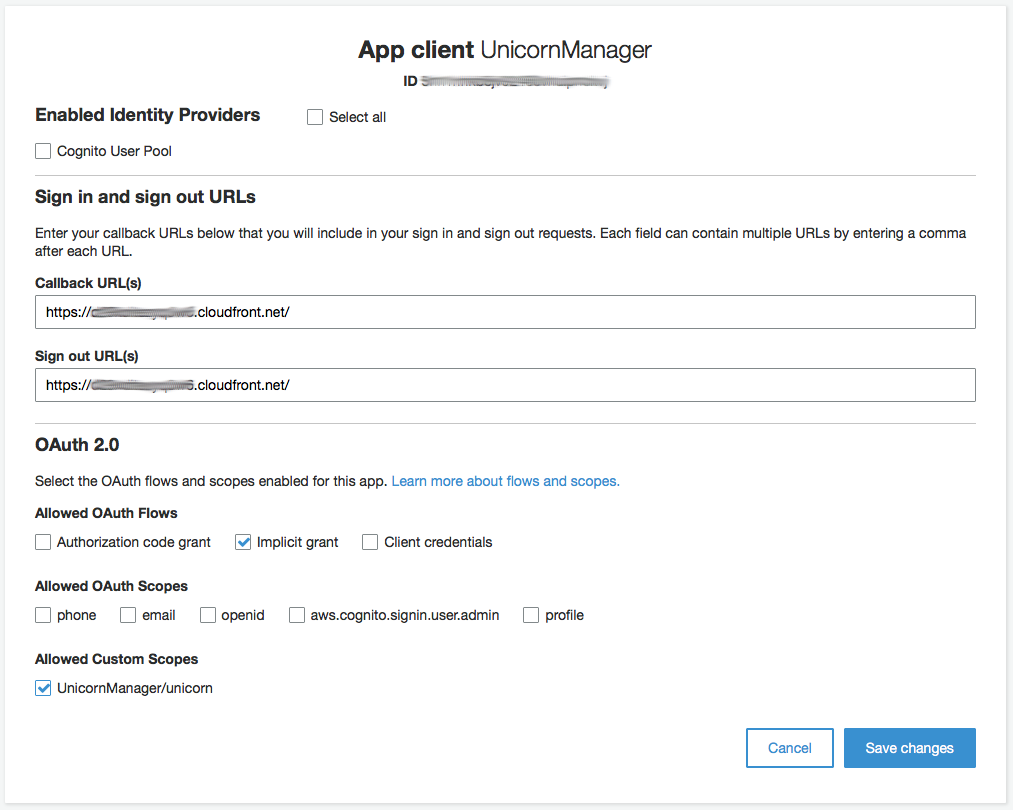
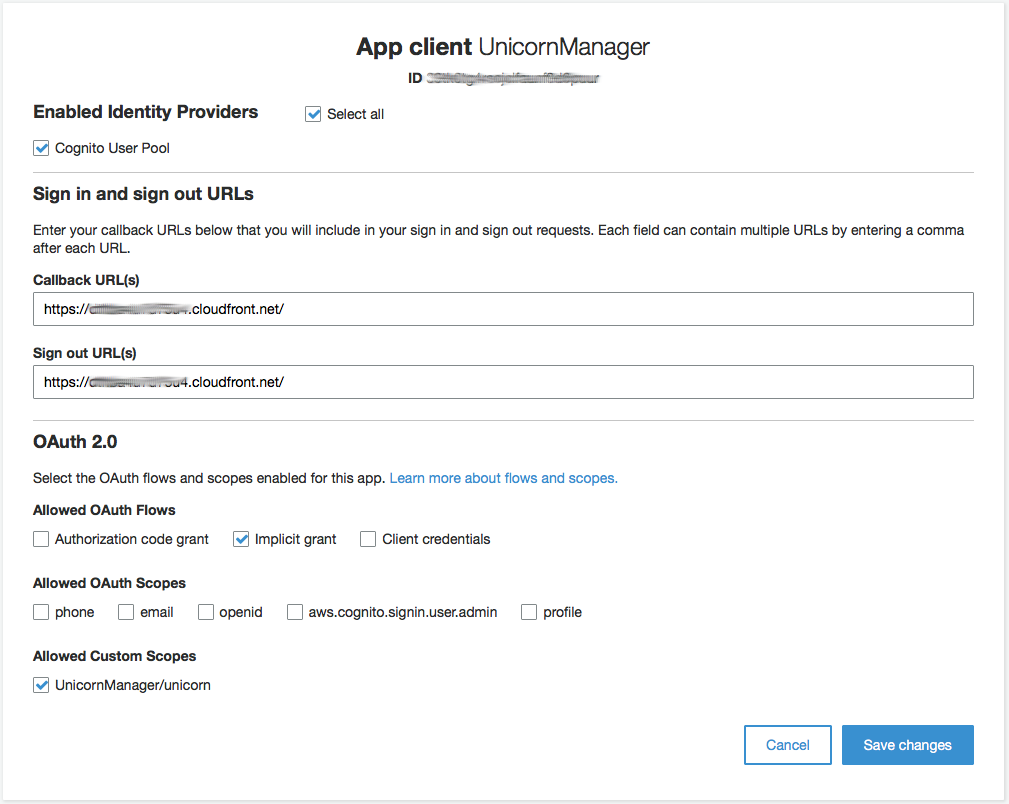
Updated screenshots and instructions for lambda function creation. Updated user pool CloudFormation template to require email address. Update instructions for testing of application. Multiple fixes in the readme file

diff --git a/WebApplication/5_OAuth/UnicornManager/js/config.js b/WebApplication/5_OAuth/UnicornManager/js/config.js
@@ -2,9 +2,9 @@ window._config = {
     cognito: {
         userPoolClientId: 'COGNITO APPLICATION ID', // e.g. 25ddkmj4v6hfsfvruhpfi7n4hv
         region: 'AWS REGION', // e.g. us-east-2
-        authDomainPrefix: 'COGNIITO HOSTED LOGIN CUSTOM DOMAIN' // sapessi-um-test
+        authDomainPrefix: 'COGNIITO HOSTED LOGIN CUSTOM DOMAIN' // wildrydes-sapessi
     },
     api: {
-        invokeUrl: 'API ENDPOINT URI' // e.g. https://rc7nyt4tql.execute-api.us-west-2.amazonaws.com/prod',
+        invokeUrl: 'API ENDPOINT URI' // e.g. https://xxxxxxxx.execute-api.us-west-2.amazonaws.com/prod',
     }
 };

diff --git a/WebApplication/5_OAuth/UnicornManager/js/unicornManager.js b/WebApplication/5_OAuth/UnicornManager/js/unicornManager.js
@@ -84,7 +84,7 @@ var UnicornManager = window.UnicornManager || {};
                    ".amazoncognito.com" +
                    "/oauth2/authorize?response_type=token" +
                    "&client_id=" + window._config.cognito.userPoolClientId +
-                   "&redirect_uri=" + location.protocol + '//' + location.host + location.pathname +
+                   "&redirect_uri=" + location.protocol + '//' + location.host + '/' +
                    "&scope=UnicornManager/unicorn";
         
         console.log("Redirecting to: " + loginUri);

diff --git a/WebApplication/5_OAuth/UnicornManager/index.html b/WebApplication/5_OAuth/UnicornManager/index.html
@@ -65,7 +65,7 @@
 
     <div class="container">
         <div class="row">
-            <div class="col-md-6 col-md-offset-3">
+            <div class="col-md-8 col-md-offset-2">
                 <div id="rideList">
                     Click <strong>Refresh</strong> to list your rides.
                 </div>

diff --git a/WebApplication/5_OAuth/UnicornManager/css/ride.css b/WebApplication/5_OAuth/UnicornManager/css/ride.css
@@ -22,6 +22,8 @@ html, body, #main, #map {
     margin-top: 30%;
     min-width: 50%;
     background-color: white;
+    padding: 10px;
+    border-radius: 5px;
 }
 
 #request {

diff --git a/WebApplication/5_OAuth/README.md b/WebApplication/5_OAuth/README.md
@@ -2,11 +2,11 @@
 
 In this module we will turn our Wild Rydes application into a platform, enabling third party developers to build new applications on top of our APIs. By leveraging third party developers, it will be easier for us to open new markets and geographies as well as provide new functionality for our riders. 
 
-You'll configure your Cognito User Pool from module #2 to enable OAuth 2.0 flows. Using OAuth, third party developers can build new client applications on top of your APIs. We will create a new method in the application's API that allows unicorns to list the rides they have given. This will open a new line of business for us, making it easy for third party developers to build applications that help unicorns manage their time and earnings. First, we will create the new method to list rides. Then, we will enable OAuth flows in our Cognito User Pool and deploy a sample client. Finally, we will leverage Usage Plans in API Gateway to throttle and meter usage of our APIs by third party developers.
+You'll configure your Cognito User Pool from module #2 to enable OAuth 2.0 flows. Using OAuth, third party developers can build new client applications on top of your APIs. We will create a new method in the application's API that allows unicorns to list the rides they have given. This will open a new line of business for us, making it easy for third party developers to build applications that help unicorns manage their time and earnings. First, we will create the new method to list rides. Then, we will enable OAuth flows in our Cognito User Pool and deploy a sample client. 
 
 ![OAuth 2.0 3rd party app architecture](../images/oauth-architecture.png)
 
-The diagram above shows how the component of the new third party application interact with our current Wild Rydes architecture. The web application is deployed in an S3 bucket. The application uses the Cognito User Pools built-in UI to start an implicity grant OAuth 2.0 flow and authenticate the user. Once the Unicorn user is authenticated the client application receives an identity and access token for the Unicorn. Tokens for Unicorns include an additional `Unicorn` claim that gives them access to the new API. When a client request hits API Gateway, usage plans will make sure that the developers is allowed access and that the application is not exceeding its limits (requests per second and quota). Still in API Gateway, a custom authorizer checks for the `Unicorn` claim in the JWT access token produced by Cognito and passes the unicorn name to the backend Lambda function. The backend Lambda function uses the unicorn name from the access token to query the rides table in DynamoDB.
+The diagram above shows how the component of the new third party application interact with our current Wild Rydes architecture. The web application is deployed in an S3 bucket. The application uses the Cognito User Pools built-in UI to start an implicity grant OAuth 2.0 flow and authenticate the user. Once the Unicorn user is authenticated the client application receives an identity and access token for the Unicorn. Tokens for Unicorns include an additional `Unicorn` claim that gives them access to the new API. In API Gateway, a custom authorizer checks for the `Unicorn` claim in the JWT access token produced by Cognito and passes the unicorn name to the backend Lambda function. The backend Lambda function uses the unicorn name from the access token to query the rides table in DynamoDB.
 
 ### Prerequisites
 This module depends on all of the previous four modules in the Wild Rydes workshop. To make it easier to get started, we have prepared a CloudFormation template that can launch the complete stack for you.
@@ -24,9 +24,11 @@ Asia Pacific (Seoul) | [![Launch Modules 1, 2, 3, and 4 in ap-northeast-2](http:
 Asia Pacific (Sydney) | [![Launch Modules 1, 2, 3, and 4 in ap-southeast-2](http://docs.aws.amazon.com/AWSCloudFormation/latest/UserGuide/images/cloudformation-launch-stack-button.png)](https://console.aws.amazon.com/cloudformation/home?region=ap-southeast-2#/stacks/new?stackName=wildrydes-webapp&templateURL=https://s3.amazonaws.com/wildrydes-ap-southeast-2/WebApplication/5_Oauth/prerequisites.yaml)
 Asia Pacific (Mumbai) | [![Launch Modules 1, 2, 3, and 4 in ap-south-1](http://docs.aws.amazon.com/AWSCloudFormation/latest/UserGuide/images/cloudformation-launch-stack-button.png)](https://console.aws.amazon.com/cloudformation/home?region=ap-south-1#/stacks/new?stackName=wildrydes-webapp&templateURL=https://s3.amazonaws.com/wildrydes-ap-south-1/WebApplication/5_Oauth/prerequisites.yaml)
 
+The stack creation process will ask you for a **Website Bucket Name**, specify a unique name for your bucket such as **wildrydes-webapp-<username>**.
+
 After the stack created successfully, open the **Outputs** tab in the CloudFormation console. Copy the **WebsiteURL** output value and navigate to the page with a browser window.
 
-On the Wild Rydes website, click the **Giddy Up!** button and register a new user. Once you have received your verification code, navigate to the **verify.html** page of the website to submit your code. From the login page, use your new credentials to log into the website. Use the application to request a few unicorn rides, we will need the data later in this module.
+On the Wild Rydes website, click the **Giddy Up!** button and register a new user. Once you have received your verification code, navigate to the **verify.html** page of the website to submit your code. From the login page, use your new credentials to log into the website. Use the application to request a few unicorn rides, we will need the rides data later in this module.
 
 
 ### 1. Create the new List Rides Lambda function
@@ -48,11 +50,13 @@ Make sure to configure your function to use the `WildRydesLambda` IAM role you c
 
 1. Click the **Author from scratch** button at the top of the blueprint list.
 
-1. Don't add any triggers at this time. Choose **Next** to proceed to defining your function.
-
 1. Enter **ListUnicornRides** in the **Name** field.
 
-1. Optionally enter a description.
+1. Select **wildrydes/WildRydesLambda** from the **Existing Role** dropdown.
+
+	 ![Define handler and role screenshot](../images/lambda-handler-and-role.png)
+
+1. Click **Create function**.
 
 1. Select **Node.js 6.10** for the **Runtime**.
 
@@ -62,11 +66,7 @@ Make sure to configure your function to use the `WildRydesLambda` IAM role you c
 
 1. Leave the default of **index.handler** for the **Handler** field.
 
-1. Select **WildRydesLambda** from the **Existing Role** dropdown.
-
-	 ![Define handler and role screenshot](../images/lambda-handler-and-role.png)
-
-1. Choose **Next** and then choose **Create function** on the Review page.
+1. Click **Save** at the top of the page.
 
 </p></details>
 
@@ -93,7 +93,7 @@ Make sure to configure your function to use the **WildRydesLambda** IAM role you
 
 1. Enter **ListUnicornAuthorizer** in the **Name** field.
 
-1. Select **WildRydesLambda** from the **Existing Role** dropdown.
+1. Select **wildrydes/WildRydesLambda** from the **Existing Role** dropdown.
 
 1. Click **Create function**.
 
@@ -110,7 +110,7 @@ Make sure to configure your function to use the **WildRydesLambda** IAM role you
     ![Create Lambda function screenshot](../images/create-list-rides-authorizer-function.png)
 
 
-1. Click **Save** at the top of the function page.
+1. Click **Save** at the top of the page.
 
 </p></details>
 
@@ -159,7 +159,7 @@ In the API Gateway console, open the `WildRydes` API we created in module #4 and
 
 1. Open the **Services** menu and select **API Gateway** in the Application Services section.
 
-1. Open the **WildRydes** API and select the `/ride` resource.
+1. Open the **WildRydes** API and, from the **Resources** page, select the `/ride` resource.
 
 1. Using the **Actions** dropdown menu in the **Resources** pane, select **Create Method**.
 
@@ -169,7 +169,7 @@ In the API Gateway console, open the `WildRydes` API we created in module #4 and
 
     ![Configure List Rides integration](../images/list-rides-api-integration.png)
 
-1. Click **Save** and confirm the new permissions on the Lambda function.
+1. Click **Save** and confirm the new permissions on the Lambda function by clicking **Ok** in the modal window.
 
 1. In the **Method Execution** screen, open the **Method Request** pane.
 
@@ -201,14 +201,14 @@ You will need to add a bucket policy to your new Amazon S3 bucket to let anonymo
 
 Using the console, enable static website hosting. You can do this on the Properties tab after you've selected the bucket. Set `index.html` as the index document, and leave the error document blank. See the documentation on [configuring a bucket for static website hosting](https://docs.aws.amazon.com/AmazonS3/latest/dev/HowDoIWebsiteConfiguration.html) for more details.
 
-Using the CloudFront console, create a new Distribution for web content specifying the S3 static website URL as the origin domain and / as the path. Make sure that the distribution only accepts HTTPS requests.
+Using the CloudFront console, create a new Distribution for web content specifying the S3 static website URL as the origin domain and / as the path. Make sure that the distribution only accepts HTTPS requests and HTTP requests are redirected to the HTTPS url.
 
 <details>
 <summary><strong>Step-by-step instructions (expand for details)</strong></summary><p>
 
 1. In the AWS Management Console choose **Services** then select **S3** under Storage.
 
-1. Choose **+Create Bucket**
+1. Choose **+ Create Bucket**
 
 1. Provide a globally unique name for your bucket such as `unicornmanager-firstname-lastname`.
 
@@ -220,7 +220,7 @@ Using the CloudFront console, create a new Distribution for web content specifyi
 
 1. Open the bucket you just created.
 
-1. Choose the **Permissions** tab, then choose **Bucket Policy**.
+1. Choose the **Permissions** tab, then click the **Bucket Policy** button.
 
 1. Enter the following policy document into the bucket policy editor replacing `[YOUR_BUCKET_NAME]` with the name of the bucket you created in section 1:
 
@@ -248,7 +248,7 @@ Using the CloudFront console, create a new Distribution for web content specifyi
 
 1. Select **Use this bucket to host a website** and enter `index.html` for the Index document. Leave the other fields blank.
 
-1. Note the **Endpoint** URL at the top of the dialog before choosing **Save**. You will use this URL throughout the rest of the workshop to view your web application. From here on this URL will be referred to as your website's base URL.
+1. Note the **Endpoint** URL at the top of the dialog before choosing **Save**.
 
 1. Click **Save** to save your changes.
 
@@ -291,7 +291,7 @@ Using the Cognito console, add a new client application called **UnicornManager*
 
 1. Click **Add another app client**.
 
-1. Enter **Unicorn Manager** as the **App client name** and uncheck the **Generate client secret** checkbox.
+1. Enter **UnicornManager** as the **App client name** and uncheck the **Generate client secret** checkbox.
 
     ![Create bucket screenshot](../images/create-cognito-app-client.png)
 
@@ -299,7 +299,7 @@ Using the Cognito console, add a new client application called **UnicornManager*
 
 1. Open the **Domain name** configuration page.
 
-1. Specify a unique custom domain name, for example **WildRydes-sapessi**.
+1. Specify a unique custom domain name, for example **wildrydes-sapessi**.
 
 1. Make sure that the domain name is available and then click **Save changes**.
 </p></details>
@@ -327,9 +327,9 @@ Using the Cognito console, open the **WildRydes** User Pool and create a new cus
 
 1. Specify **UnicornServer** as the **Name**.
 
-1. For the **Identifier** use the URL from your S3 website in module 1. You can find this URL in the S3 console: Open the Wild Rydes website bucket, select the **Properties** tab, and click on the **Static Website Hosting** card. You can find the public endpoint at the top of the card.
+1. Use **UnicornManager** as the  **Identifier** for the custom resource server.
 
-1. In the **Scopes** section, declare a new scope called **unicorn**. I've used **Unicorn-specific access** as the description.
+1. In the **Scopes** section, declare a new scope called **unicorn**. I've used "**Allow listing of of rides for unicorns**" as the description.
 
     ![Configure Cognito Resource Server](../images/configure-cognito-resource-server.png)
 
@@ -341,7 +341,7 @@ Using the Cognito console, open the **WildRydes** User Pool and create a new cus
 #### Background
 Amazon Cognito User Pools supports the authorization code grant, implicit, and client credentials grants. Third party developers can load the Cognito hosted UI with their application ID and request any of the enabled flows. Cognito User Pools also exposes a set of client and server/admin APIs that you can use to build custom authentication flows. As a result of a successful authentication Cognito produces and OpenID Connect-compatible identity token and a JWT access token. The access token includes the custom scopes you declared for the application.
 
-In our example, we will use the implicit flow for the sake of simplicity. Implicit grant flows are mostly used by mobile applications. Normally, you would require third party developers to host their own backend service and use the authorization code grant flow.
+In our example, we will use the implicit flow for the sake of simplicity. Implicit grant flows are mostly used by mobile applications. For web applications, you would normally require third party developers to host their own backend service and use the authorization code grant flow.
 
 #### High-Level Instructions
 Open the **App client settings** and configure the **UnicornManager** app to use **Cognito User Pool** as an identity provider and allow the **Implicit grant** flow. Make sure the application has access to the **custom scope** we created in step #7. As a callback URL, use the CloudFront distribution endpoint we created in step #5. The callback url will look like this: `https://xxxxxxxxxxx.cloudfront.net`.
@@ -353,11 +353,13 @@ Open the **App client settings** and configure the **UnicornManager** app to use
 
 1. In the intro page, click **Manage your User Pools** an open the **WildRydes** pool.
 
-1. Open the **App clients settings** from the **App integration** menu on the left.
+1. Open the **App clients settings** from the **App integration** menu on the left. This page lists both the app clients declared for your user pool. Make sure you make the following changes only to the **UnicornManager** client app.
 
-1. Enable the **Implicit grant** OAuth flow and allow the **http://wildrydes** custom scope.
+1. Select **Cognito User Pool** as an identity provider for the app client.
 
-1. In the **Callback** and **Signout** URLs, specify the HTTPS cloudfront distribution endpoint and add **/callback.html** at the end:
+1. Enable the **Implicit grant** OAuth flow and allow the **UnicornManager/unicorn** custom scope.
+
+1. In the **Callback** and **Signout** URLs, specify the HTTPS cloudfront distribution endpoint adding **https://** at the beginning and **/** at the end:
  1. You can find the distribution endpoint in the **CloudFront** console.
  1. Select the distribution we created in step #5.
  1. In the **General** tab, copy the value for **Domain name**.
@@ -380,9 +382,26 @@ Upload the content of the **UnicornManager** folder to the root of your S3 bucke
 
 <details>
 <summary><strong>CLI step-by-step instructions (expand for details)</strong></summary><p>
-##### AWS CLI
+1. With a file manager, navigate to the folder where the lab content is located and open the **UnicornManager** directory from the **WebApplication/5_OAuth/** folder.
 
 1. Open a terminal window and navigate to the folder where the material for this workshop is located. Navigate to the `WebApplication/5_OAuth/UnicornManager` folder.
+
+1. Open the **js** folder.
+
+1. Using your preferred text editor, open the **config.js** file.
+
+1. From the Cognito User Pools console, copoy the client app id for the **UnicornManager** application as the value of the **userPoolClientId** property. You can find the application id in the **App clients** menu of the Cognito console.
+
+1. Change the value of the **region** property to the region you are using for this workshop. For example, I'm using **us-east-2**.
+
+1. Still in the Cognit User Pools console, open the **Domain name** page and copy the custom prefix in the value for the **authDomainPrefix** property. In our sample, this was `wildrydes-sapessi`.
+
+1. Finally, open the CloudFormation console and select the pre-requisites stack we created at the beginning of this lab. With the stack selected, use the bottom section of the window to open the **Outputs** tab. Copy the value of the **WildRydesApiInvokeUrl** output variable to the **invokeUrl** property - this value should look like this: `https://xxxxxxxxx.execute-api.xx-xxxxx-x.amazonaws.com/prod`
+
+1. Next, we need to copy the files we just modified to the S3 bucket that hosts our static website. We created the bucket in step #5 of this lab and it should be called **unicornmanager-&lt;username&gt;**. You can use the AWS CLI or the management console with a compatible browser to upload the files.
+##### AWS CLI
+
+1. With a terminal, navigate to the **UnicornManager** directory in the lab material folder. 
 
 1. Run the following command:
 
@@ -401,9 +420,14 @@ Upload the content of the **UnicornManager** folder to the root of your S3 bucke
 ### Testing the application
 Before we open the web page for the new Unicorn Manager application, we need to create a user for our unicorn. Using the **DynamoDB** console, open the **Tables** page and select the **Rides** table. In the **Items** tab, refresh the list of rides. Take the most common unicorn name from the **UnicornName** field and copy the value. 
 
-Next, open the Wild Rydes web UI - you can find the link in the **Outputs** of the prerequisites CloudFormation stack. If the application logs you in automatically, log out first. Open the **register.html** page and create a new user. The registration automatically sends you a verification code to the email address you specified, activate the user by entering the verification code in the **verify.html** page.
+Next, open the unicorn manager application by navigating to the CloudFront distribution domain we created in step #5 - the domain should look like this: **xxxxxxxxxxxx.cloudfront.net**. The application detects that we are not logged in an automatically redirects us to the Cognito hosted login page. On the login page, use the **Sign up** link at the bottom of the form.
 
-With a web browser, navigate to the CloudFront endpoint for your Unicorn Manager web application. You can find the endpoint in the CloudFront console by opening the distribution - the field is called **Domain Name**. The website should redirect you automatically to the Cognito hosted login page. At the bottom of the login panel, click on the **Need an account? Sign Up** link. Use the unicorn name copied from DynamoDB as the username and a valid password, finally click **Sign Up**. Use the Cognito console to **Confirm** the user.
+In the Sign up page, use the **UnicornName** value we copied from the DynamoDB table as the username, a valid email address, and create a password for the user. With most email addresses you can use a suffix preceded by **+** to create custom addresses. For example, you could sign up with **youremail+unicorn@emaildomain.com**.
 
-Open the CloudFront domain again and log in with the new user you just confirmed. Use the **Refresh** button to load the rides for the unicorn. 
+![Sign up unicorn screenshot](../images/user-pool-unicorn-signup.png)
 
+Click **Sign up** to create the unicorn account. The hosted registration ui will ask you for the verification code, you should have received this code via email. Paste the verification code in the form and click **Confirm account**.
+
+Once the account is confirmed, the application will redirect you to the main web page of the Unicorn manager. Use the **Refresh** button on the top right to load a list of the rides for the unicorn you registered.
+
+We have now turned **Wild Rydes** into a platform. Third party developers can now ask us for a new client app id, use our hosted UI to authenticate and register new users. This will allow us to grow our customer base and toolkit beyond what our team can produce by itself, **UnicornManager** is just the first step.
